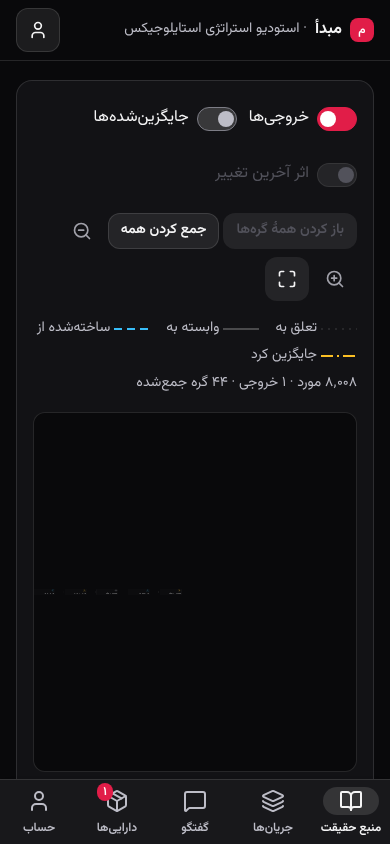
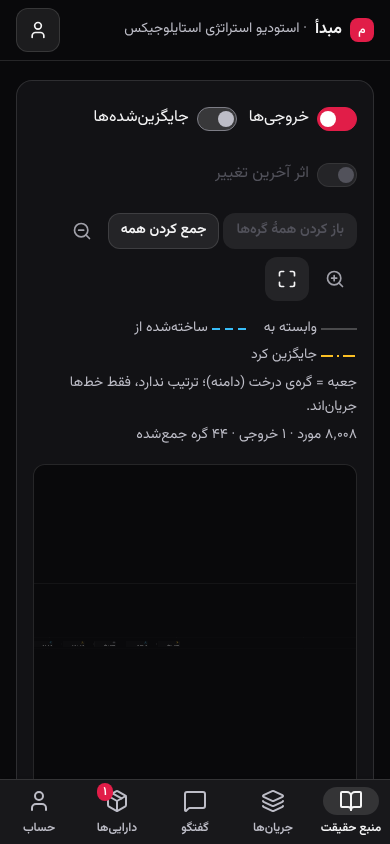
docs: spine (درخت = دامنه؛ تقدم فقط از depends_on؛ تصمیمهای باز)، case-study و ui-audit بهروز
Claude-Session: https://claude.ai/code/session_012s3hWJ53mCG12g4v1cSDvK

diff --git a/docs/spine.md b/docs/spine.md
@@ -5,7 +5,7 @@
 | مفهوم | تعریف یکخطی | چه چیزی نیست | کدام موتور میخواند |
 | --- | --- | --- | --- |
 | **Workspace** | مرز حقیقت: هر کسبوکار/مشتری یک Workspace؛ هیچ دادهای از مرز رد نمیشود. | پوشه یا پروژهٔ نمایشی نیست؛ پلن و سقفها به آن بستهاند. | همهٔ موتورها (scope = userId + workspaceId) |
-| **Node** | دامنهٔ معنا در درخت (کسبوکار، مخاطب، پیشنهاد…)؛ زیرگرهها حقیقت را به ارث میبرند. | دستهبندی سلیقهای نیست؛ گرهٔ سیستمی فقط تغییر نام میگیرد. | `nodeTree`، `contextEngine` (ارثبری)، `aiContext` |
+| **Node** | دامنهٔ معنا در درخت (کسبوکار، مخاطب، پیشنهاد…)؛ زیرگرهها حقیقت را به ارث میبرند. | دستهبندی سلیقهای نیست؛ گرهٔ سیستمی فقط تغییر نام میگیرد. **ترتیب نیست:** همسطحها تقدمی ندارند. | `nodeTree`، `contextEngine` (ارثبری)، `aiContext` |
 | **Context Object** | واحد حقیقت؛ فقط `Fact` / `Decision` / `Constraint`. | خروجی، یادداشت یا پاسخ مدل نیست. | Gap، Readiness، تناقض، `contextPack`، `impactEngine` |
 | **Status** | وضعیت اعتبار: Confirmed، Proposed، Needs Review (علامت دستی کاربر)، Superseded، Archived. فقط Confirmed «واقعیت» است. | منشأ را نمیگوید. «نیاز به بازبینی» بهخاطر وابستگی، وضعیت نیست؛ مشتق است (Staleness). | `contextEngine`، `context.ts` (Proposed هرگز واقعیت به مدل داده نمیشود) |
 | **Provenance** | منشأ ثبت: Onboarding، User Input، AI Suggested، Imported، Asset Derived. | اعتبار نمیدهد؛ AI Suggested بدون تأیید واقعیت نیست. | صندوق پیشنهادها، `changeFeed` |
@@ -16,8 +16,8 @@
 | **Source** | شاهد: آنچه Object از آن آمد (کدام AI/فایل/یادداشت، چه وقت، نقل دقیق). | دلیل تغییر نیست. | صندوق پیشنهادها، `memory import` |
 | **Note** | فکر خام روی یک Node؛ هرگز به مدل نمیرود. | Context نیست؛ فقط با «استخراج» Proposed میسازد. | هیچ موتور حقیقتی؛ فقط استخراج |
 | **Slot** | جایگاه نامدار که Spec میخواهد (`slotKey`)؛ Object آن را پر میکند. | عنوان نیست؛ عنوان فقط برای دادهٔ قدیمی. | `contextEngine.fillsItem` |
-| **Gap / Readiness / تناقض** | مشتق از Objectها و Spec؛ هر بار محاسبه میشوند. | ذخیره نمیشوند (جز حکم مدل برای جفت تناقض بهعنوان کش). | `contextEngine`، `contradictionCandidates` |
-| **Workstream** | جریان کار: هدف + خروجیهای وابسته. **Spec فقط تعریف داخلی** آن است. | داده یا حقیقت نیست. | `specGraph`، pipeline |
+| **Gap / Readiness / تناقض** | مشتق از Objectها و Spec؛ هر بار محاسبه میشوند. کاندید تناقض سه سیگنال ساختاری هم دارد: همان slot، `depends_on` (`linked`) و همگرههمنوعِ با متن نزدیک. | ذخیره نمیشوند (جز حکم مدل برای جفت تناقض بهعنوان کش). قضاوت فقط پس از تغییر Objectِ یک جفت یا با دکمه، نه با باز کردن فضا. | `contextEngine`، `contradictionCandidates` |
+| **Workstream** | جریان کار: هدف + خروجیهای وابسته. **Spec فقط تعریف داخلی** آن است. جریانهای آماده یک «کتابخانه»اند؛ هر فضا فقط آنچه برداشته (`Workspace.enabledSpecIds`؛ نبودنِ فیلد = همهٔ پیشفرضها) و جریانهای خودش را دارد. | داده یا حقیقت نیست. | `specGraph`، pipeline |
 | **Asset** | خروجی ساختهشده (Markdown) با Lineage. | از نوع Context نیست (`ContextType` فقط Fact/Decision/Constraint)؛ «پیشنهاد دانش از این خروجی» از مسیر استخراج Proposed با نقل منبع میسازد و کاربر تأیید میکند. | `impactEngine` |
 | **Lineage** | فهرست دقیق `{id, version}` Objectهای تزریقشده هنگام ساخت Asset. | — | `impactEngine` |
 | **Impact** | اثر یک تغییر: کدام Assetها (و وابستهها) از Objectِ عوضشده ساخته شدهاند. | — | `impactEngine` |
@@ -25,3 +25,14 @@
 | **Board (بوم)** | نمای ویرایشی: ستون = وضعیت، ردیف = گره، ترتیب = «رتبه»ٔ اعلامشده (`canvas_view_items`)؛ یادداشتهای آزاد فقط x/y دارند. | موقعیت چیزی را استنتاج نمیکند؛ هیچ موتوری x/y را نمیخواند. رتبه یک Change است، مختصات نه. | `canvasModel` (فقط وضعیت/گره/رتبه) |
 | **Change** | رکورد افزودهشونده در همان تراکنش هر تغییر: object، نسخه از/به، kind، actor (+برچسب)، reason، فقط فیلدهای تغییرکرده (`context_changes`). | متن Object نیست؛ `reason` هرگز به مدل تزریق نمیشود (MCP هم فقط `hasReason` میدهد). | `decisionGraph.needsReview`، `impactEngine`، MCP `get_changes` |
 | **AI** | اجرا، نه اعتبار: پیشنهاد میدهد، قضاوت بسته میکند؛ تأیید همیشه با کاربر. | منبع حقیقت نیست. | router، pipeline، decision layer |
+
+## درخت، ترتیب و تقدم
+
+- **درخت = دامنه و ارثبری.** گره میگوید یک ادعا «دربارهٔ چه» است و زیرگرهها از والد ارث میبرند. اینکه یک گره بالاتر یا چپ/راستتر از همسطحش باشد فقط نمایش است (`order` برای چیدن است، نه معنا) و هیچ موتوری آن را نمیخواند.
+- **تقدم فقط از `depends_on` میآید.** «این تصمیم روی آن سوار است» تنها یالی است که ترتیب میسازد (`decisionGraph`، لایهبندی نقشه). جایگزینی (`supersedes`) و تبار (`derived_from`) جریان زمان/ساختاند، نه تقدمِ دامنه.
+- **در نقشه:** لایهها فقط از یالهای وابستگی، تبار و جایگزینی میآیند؛ درخت بهصورت **جعبهٔ گروهبندی** است که گره، Objectها و جعبهٔ زیرگرههایش را در بر میگیرد. دو گرهٔ همسطح بدون وابستگی در یک لایهاند (زیر هم، نه پشت هم). در بوم هم ردیف = گره بدون معنای تقدم. شمارهٔ بخشدار (۱.۲) فقط در نمای سند میماند.
+
+## تصمیمهای باز
+
+1. **کلید «این گره مستقل است».** امروز سازماندهی (کجا قرارش بدهم؟) و ارثبری (چه چیزی را به ارث ببرد؟) یکیاند: برای اینکه یک ادعا از والد ارث نبرد باید آن را به گرهٔ دیگری ببری. پیشنهاد: کلیدی روی گره که ارثبری را قطع کند بیآنکه جایش در درخت عوض شود. هنوز ساخته نشده؛ چون ارثبری در `contextEngine`، `aiContext` و بستهٔ Context خوانده میشود، هر سه باید با هم عوض شوند.
+2. **سه محور بهجای یک درخت.** *دامنه* (درخت: دربارهٔ چه)، *وابستگی* (`depends_on`: روی چه سوار است)، *بُعد* (برچسبهای متقاطع مثل مخاطب/کانال/فصل که با دامنه یکی نیستند). امروز فقط دو محور اول مدل شدهاند و «بُعد» با گرههای تکراری یا slotKey دور زده میشود. هر محوری که اضافه شود باید قاعدهٔ بالا (فقط محور وابستگی تقدم میسازد) را نگه دارد و حتماً یک موتور بخواندش.

diff --git a/docs/case-study.md b/docs/case-study.md
@@ -34,10 +34,10 @@
 | ۹ | ساختار | درخت را باز کن | ۴ سطح؛ هر گره دانش و یادداشتهایش؛ فایل روی «اشتراک ماهانه» |
 | ۱۰ | جزئیات یک قلم | «مخاطب اصلی» ← زبانهٔ «تاریخچه» | دو نسخه با قبل/بعد، عامل و دلیل («بعد از نظرسنجی…») |
 | ۱۱ | جزئیات | «روز ارسال اشتراک» (شنبه) | چهار نسخه با زنجیرهٔ جایگزینی و دلیل هر جایگزینی |
-| ۱۲ | نقشه | نمای «نقشه» | خطهای «وابسته به»، «ساختهشده از» و «جایگزین کرد»؛ با کلیک بر «مخاطب اصلی» مسیر اثر (کانال، بودجه، خروجیها) روشن میشود؛ «اثر آخرین تغییر» |
+| ۱۲ | نقشه | نمای «نقشه» | گرهها جعبهاند و ترتیب نشان نمیدهند؛ خطهای «وابسته به»، «ساختهشده از» و «جایگزین کرد»؛ با کلیک بر «مخاطب اصلی» مسیر اثر (کانال، بودجه، خروجیها) روشن میشود؛ «اثر آخرین تغییر» |
 | ۱۳ | بوم | نمای «بوم» | ستونهای «در فکر / تأییدشده / نیاز به بازبینی» با ردیف گرهها؛ کشیدن «کمپین ماه اول» به «تأییدشده» تأیید با دلیل اختیاری؛ ناحیهٔ فکر آزاد با ۵ یادداشت؛ «تبدیل به قلم دانش» فقط Proposed میسازد |
 | ۱۴ | بوم (کیبورد/موبایل) | «انتقال و اتصال» روی یک کارت | همهٔ اقدامها بدون کشیدن؛ برگرداندن مورد تأییدشده فقط با تأیید صریح |
-| ۱۵ | جریانهای کار | سه جریان نمونه | «معرفی برند» آماده؛ «کمپین اشتراک» یک شکاف missing («تاریخ شروع کمپین») و «سیاست ارسال» فقط پیشنهادی؛ «تقویم محتوا» یک مورد مبهم |
+| ۱۵ | جریانهای کار | فقط سه جریان خود فضا (کتابخانه با «افزودن از کتابخانه») | «معرفی برند» آماده؛ «کمپین اشتراک» یک شکاف missing («تاریخ شروع کمپین») و «سیاست ارسال» فقط پیشنهادی؛ «تقویم محتوا» یک مورد مبهم |
 | ۱۶ | داراییها | سه دارایی | همه «نمونهٔ دستی»؛ «متن کمپین اشتراک» (وابستگی) و «تقویم هفتگی» (نسخهٔ «معضل اصلی» ۱ ← ۲) «نیاز به بازبینی» با دلیل؛ «ساخت با AI» با کلید خودت خروجی واقعی میسازد |
 | ۱۷ | بستهٔ دانش | «کپی کل دانش برای AI» | فقط تأییدشدهها واقعیتاند؛ پیشنهادیها «تأییدنشده» برچسب دارند |
 | ۱۸ | MCP | اتصال Claude، `get_gaps` و `get_changes` | همان شکافها و تغییرها با عامل؛ دلیلها به AI داده نمیشوند |
@@ -54,7 +54,8 @@
 | ۳ | دو کارت با نام تقریباً یکسان («نیاز به بازبینی» و «خروجی نیاز به بازبینی») | رفع شد: «دانش نیاز به بازبینی» |
 | ۴ | ترتیب فهرست جریانها در یک میلیثانیه نامعین بود (`created_at` بدون شکستن گره)؛ بازنشانی دوم گاهی ترتیب دیگری میداد | رفع شد: `ORDER BY created_at DESC, id` |
 | ۵ | فضای نمونه با سقف تعداد فضا و قلم و سهمیهٔ فایل و گزارش مدیر شمرده میشد | رفع شد: `isDemo` (فقط سرور) |
-| ۶ | عنوانهای کوتاه «سیاست ارسال» و «هزینهٔ ارسال» نامزد تناقض نمیشوند (شباهت عنوان ۰٫۳۳ < آستانهٔ ۰٫۳۴)؛ «ارسال رایگان» در برابر «با هزینه» نادیده میماند | **باز**: آستانه را عمداً دست نزدم؛ عنوان نمونه نزدیکتر شد. پیشنهاد: واژههای همخانوادهٔ عنوان («ارسال» در دو عنوان) با وزن بیشتر یا تطبیق روی متن |
-| ۷ | جریانهای آمادهٔ فریلنسری هنوز در هر فضایی در فهرست میآیند (۳ جریان نمونه + ۳ پیشفرض) | **باز**: تصمیم محصولی لازم است (پنهانکردن پیشفرضها وقتی فضا جریان خودش را دارد؟) |
-| ۸ | با کلید AI، باز کردن فضا (پلن Max) خودکار قضاوت تناقض معنایی را اجرا میکند و برای «ارسال رایگان/با هزینه» پاسخ AI میگیرد و ذخیره میکند | **باز / طبق طراحی**: ساخت فضا هیچ قضاوتی نمیسازد؛ این فقط بعد از ساخت و با کلید خود کاربر است و با «بازنشانی» پاک میشود. اگر میخواهی بدون هزینه بررسی کنی، کلید نگذار |
+| ۶ | عنوانهای طبیعی «سیاست ارسال» و «هزینهٔ ارسال» نامزد تناقض نمیشدند (شباهت عنوان ۰٫۳۳ < آستانهٔ ۰٫۳۴) | رفع شد بدون دست زدن به آستانه: دلیلهای ساختاری `linked` (وابستگی) و `same_node_same_type` (یک گره، یک نوع، متن نزدیک)؛ عنوانها به شکل طبیعی برگشتند |
+| ۷ | جریانهای آمادهٔ فریلنسری در هر فضایی در فهرست میآمدند (۳ جریان نمونه + ۳ پیشفرض) | رفع شد: پیشفرضها «کتابخانه»اند و `Workspace.enabledSpecIds` تعیین میکند؛ فضای نمونه خالی (فقط ۳ جریان خودش)، فضای تازه خالی و با «شروع سریع» یا «افزودن از کتابخانه» پر میشود، فضاهای قدیمی بدون تغییر |
+| ۸ | با کلید AI، باز کردن فضا خودکار قضاوت تناقض معنایی را اجرا و ذخیره میکرد | رفع شد: قضاوت فقط پس از تغییر Objectِ یک جفت کاندید (با چند ثانیه صبر) یا با «بررسی تناقض»؛ هرگز با باز کردن، ساخت یا بازنشانی؛ بدون کلید هیچ اجرایی نیست؛ «N قضاوت امروز از سقف M» نمایش داده میشود |
+| ۱۰ | در نقشه، درخت بهصورت یال جریان کشیده میشد و همسطحها (مثل «اشتراک ماهانه» و «شبکههای اجتماعی») انگار پشت هم بودند | رفع شد: لایه فقط از وابستگی/تبار/جایگزینی؛ درخت جعبهٔ گروهبندی و همسطحها در یک لایه (بیتقدم) |
 | ۹ | اعتبار فضای نمونه با حالت AI مدیریتشده: صفر باعث میشد «ساخت با AI» همان لحظه «اعتبار ناکافی» بدهد | رفع شد: ۱۵۰ اعتبار (با هر بازنشانی همین مقدار؛ در مصرف حساب شمرده نمیشود) |

diff --git a/docs/ui-audit.md b/docs/ui-audit.md
@@ -99,3 +99,7 @@
 | ۴۴ | برای بررسی محصول یا آزمون پذیرش دادهای در دسترس نبود که همهٔ حالتها را نشان بدهد | نمونهٔ قدیمی فریلنسری بود و بیشتر حالتها (حلقه، بلاک، پرتغییر، تناقض، وابستگی) را نداشت | «ساخت یا بازنشانی فضای نمونه» (`isDemo`، سرور-محور، idempotent)؛ `docs/case-study.md` با ۲۰ گام و فهرست ناهماهنگیها؛ `scripts/scenario-casestudy.mjs` | ✅ |
 | ۴۵ | جریان پیشفرض و سؤالهای پنل توجه به جریان آمادهٔ نمونه برمیگشت | `selectedSpecId` ثابت بود | اولین جریان خود فضا | ✅ |
 | ۴۶ | نقشه و بوم بعد از انتخاب دیده نمیشدند | زیر پنلهای بالای صفحه بودند | اسکرول به نما | ✅ |
+| ۴۷ | سیاست و هزینهٔ ارسال با عنوان طبیعی کاندید تناقض نبودند | فقط شباهت عنوان (آستانهٔ ۰٫۳۴) سیگنال بود | `linked` (depends_on) و `same_node_same_type`؛ آستانه دستنخورده، سقف و pairBlocking حفظ | ✅ |
+| ۴۸ | باز کردن فضا با کلید AI خودکار قضاوت میکرد | effect روی جفتهای بیقضاوت | فقط پس از تغییر یا با «بررسی تناقض» + شمارندهٔ آرام «N قضاوت امروز از سقف M» (`src/core/judgePolicy.ts`) | ✅ |
+| ۴۹ | جریانهای پیشفرض فریلنسری در همهٔ فضاها | `WORKSTREAM_SPECS` برای همه ثابت | کتابخانه + `Workspace.enabledSpecIds`؛ «افزودن از کتابخانه»؛ تبهای دارایی از جریانهای همان فضا | ✅ |
+| ۵۰ | نقشه ترتیب را از درخت میخواند | یال ساختاری در لایهبندی | جعبهٔ گروهبندی؛ لایه فقط از جریان | ✅ |
